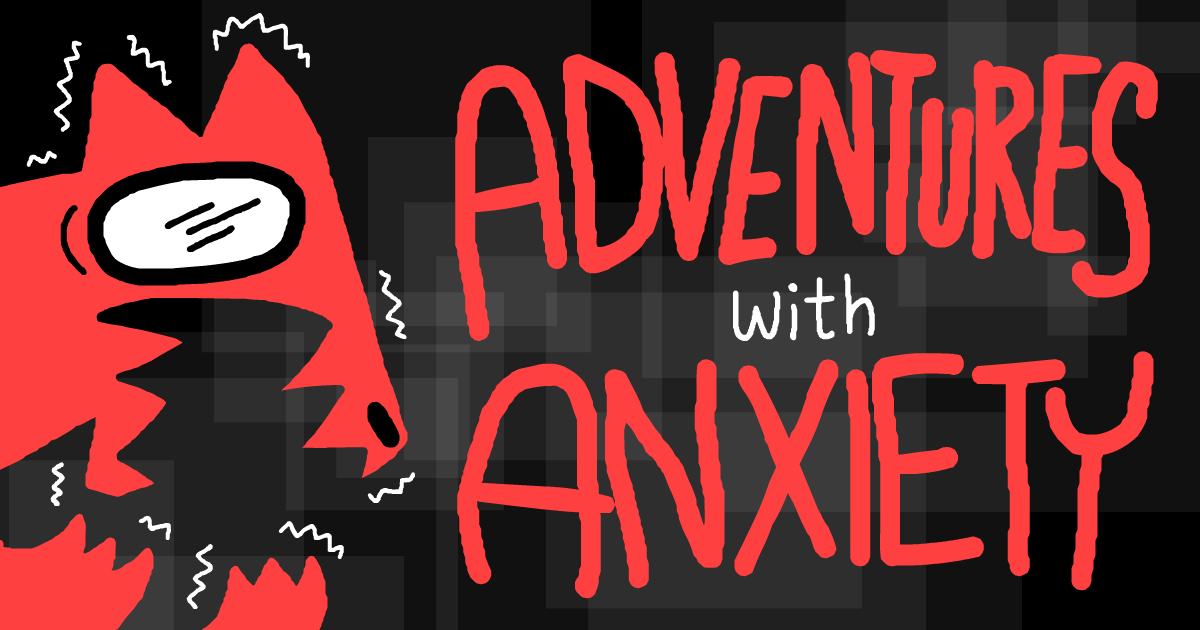
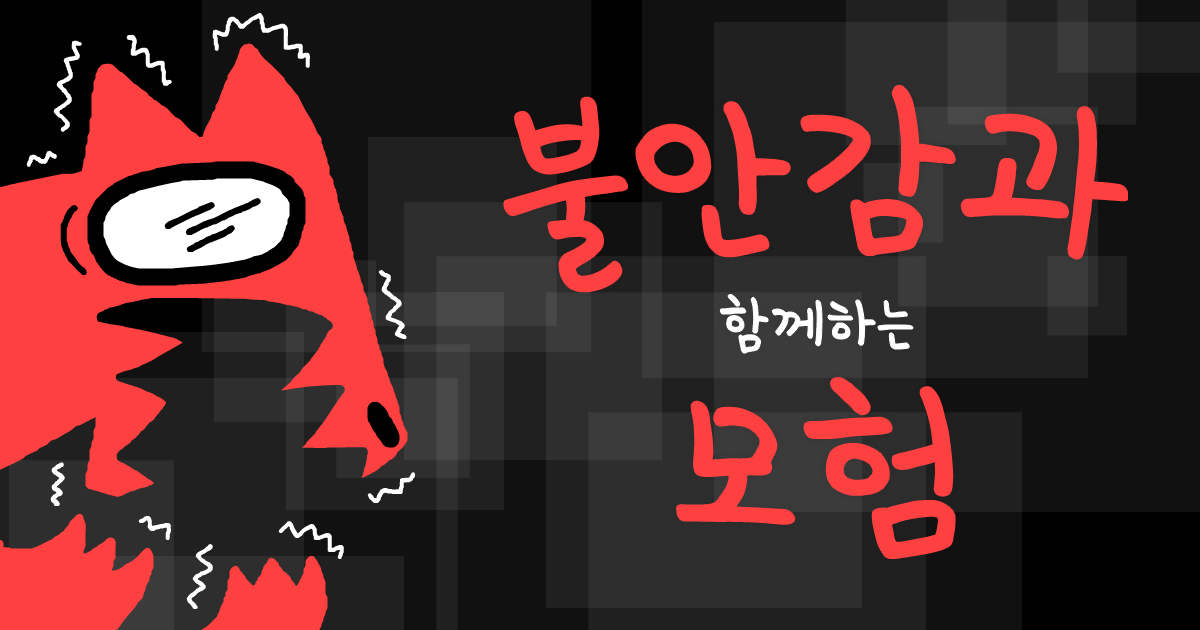
index.html 최적화 작업

Changed region(s): [[0.37, 0.0603, 0.9867, 0.5429], [0.37, 0.4222, 0.9867, 0.9651]]

diff --git a/index.html b/index.html
@@ -222,13 +222,13 @@
 <br>
 번역참여:
 <br>
-<a href="https://github.com/KyleHeren" target="_blank">KyleHeren</a> *
+<a href="https://github.com/KyleHeren" target="_blank">KyleHeren</a>
 <br>
 <a href="https://github.com/KUMAbabe" target="_blank">KUMAbabe</a>
 <br>
 <a href="https://github.com/Skygazer-Jay" target="_blank">Skygazer-Jay</a>
 <br>
-<a href="https://github.com/septemberstokii" target="_blank">septemberstokii</a> (이미지도)
+<a href="https://github.com/septemberstokii" target="_blank">septemberstokii</a>
 <br>
 ...
 <br>
@@ -264,17 +264,16 @@ Anxiety를 공유하세요:
 <br>
 
 즐거움을 나누고 싶다면:<br>
-<a href="sharing" target="_blank">동영상 &amp; 이미지</a>
+<a href="sharing" target="_blank">트레일러 &amp; 이미지</a>
 </div>
 
 <div class="corner-text" id="bottomright">
-<a href="https://ncase.me/mental-health/" target="_blank">정신 건강 조언 &amp; 복지 기관</a>
+<a href="https://ncase.me/mental-health/" target="_blank">정신 건강 조언 &amp; 복지 기관(영문)</a>
 
 <span class="hide-if-cuss-free">
 	<br><br>
 	<a href="?c=1">욕설 필터링 모드</a><br>
-	(어..음.. 욕설이나 자극적인 말을<br>
-    보기싫다면..)
+	(@✩$!나게 많은 욕설이나<br>자극적인 말들을 보기싫다면?)
 </span>
 </div>
 

diff --git a/README.md b/README.md
@@ -247,4 +247,3 @@ Thank you you're the beeeeeest 💖🐺💖
 
 
 
-
